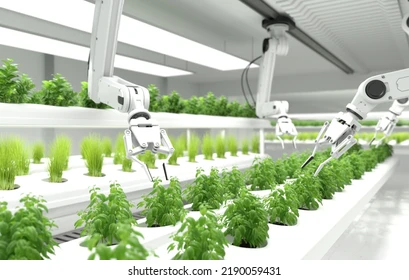
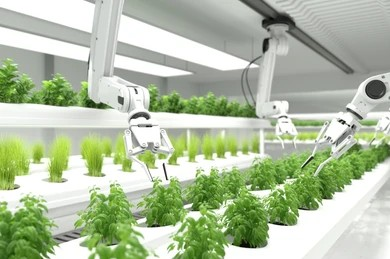
Design changes

diff --git a/src/pages/Home.jsx b/src/pages/Home.jsx
@@ -3,10 +3,10 @@ import { useState } from "react";
 import { Link } from "react-router-dom";
 import logo2 from "../assets/images/logo2.jpg";
 import greenPath from "../assets/images/pathway-though-green-field.jpg";
-import Dot2 from "../assets/images/dot2.png";
+import Dot2 from "../assets/images/dot2.jpeg";
 import Icon1 from "../assets/images/icon1.png";
 import Icon2 from "../assets/images/icon2.png";
-import Left from "../assets/images/left.png";
+import Left from "../assets/images/left2.jpeg";
 import Section from '../components/Section';
 import Testimonial from "../assets/images/testimonial.png";
 import Blog2 from "../assets/images/blog2.png";
@@ -26,7 +26,7 @@ const Home = () => {
   
   return (
     
-  <div className="bg-white  max-w-full overflow-x-hidden font-roboto mx-5">
+  <div className="bg-white  max-w-full overflow-x-hidden font-roboto ">
    
   <header className="bg-white shadow-md fixed w-full z-50">
   <div className="max-w-7xl mx-auto flex justify-between items-center py-4 px-3 md:px-8">
@@ -99,7 +99,7 @@ const Home = () => {
       <div className="centeredhero mt-10 md:mt-0">
         <p className='text-xl font-[1000] text-green-700 '>WELCOME TO AGRIBOT FAMILY</p>
         <h1 className='text-6xl m-6 font-[1000]'>Indoor Farming</h1>
-        <p className='text-lg font-[1000] '>Farm smarter,not Harder.Hire robot as a service for a Moderen Farming.</p>
+        <p className='text-lg font-[1000] '>Farm smarter, not Harder.Hire robot as a service for a Moderen Farming.</p>
       <Link to="/about"><button className='bg-green-700 p-3 mt-5 rounded-lg'>Discover More</button></Link>
       </div>
     </div>
@@ -117,7 +117,7 @@ const Home = () => {
           <img
             src={features2}
             alt=""
-            className="w-24 sm:w-32 h-24 sm:h-32 object-cover rounded-lg shadow-md"
+            className="w-50 sm:w-50 h-50 sm:h-40 object-cover rounded-lg shadow-md"
           />
         </div>
       </div>
@@ -132,7 +132,7 @@ const Home = () => {
           <img
             src={Dot2}
             alt=""
-            className="w-24 sm:w-32 h-24 sm:h-32 object-cover rounded-lg shadow-md"
+            className="w-50 sm:w-50 h-50 sm:h-40 object-cover rounded-lg shadow-md"
           />
         </div>
       </div>
@@ -147,7 +147,7 @@ const Home = () => {
           <img
             src={features1}
             alt=""
-            className="w-24 sm:w-32 h-24 sm:h-32 object-cover rounded-lg shadow-md"
+            className="w-50 sm:w-50 h-50 sm:h-40 sm:h-32 object-cover rounded-lg shadow-md"
           />
         </div>
       </div>
@@ -162,7 +162,7 @@ const Home = () => {
           <img
             src={f13}
             alt=""
-            className="w-24 sm:w-32 h-24 sm:h-32 object-cover rounded-lg shadow-md"
+            className="w-50 sm:w-50 h-50 sm:h-40 object-cover rounded-lg shadow-md"
           />
         </div>
       </div>
@@ -177,7 +177,7 @@ const Home = () => {
           <img
             src={f11}
             alt=""
-            className="w-24 sm:w-32 h-24 sm:h-32 object-cover rounded-lg shadow-md"
+            className="w-50 sm:w-50 h-50 sm:h-40 object-cover rounded-lg shadow-md"
           />
         </div>
       </div>
@@ -192,7 +192,7 @@ const Home = () => {
           <img
             src={f12}
             alt=""
-            className="w-24 sm:w-32 h-24 sm:h-32 object-cover rounded-lg shadow-md"
+            className="w-50 sm:w-50 h-50 sm:h-40 object-cover rounded-lg shadow-md"
           />
         </div>
       </div>
@@ -208,28 +208,24 @@ const Home = () => {
         <img
           src={Left}
           alt="Farm"
-          className="w-full max-w-sm sm:max-w-md lg:max-w-lg object-cover rounded-lg"
+          className="w-120 h-100 max-w-sm sm:max-w-md lg:max-w-lg object-cover rounded-lg"
         />
       </div>
       <div className="md:w-1/3" data-aos="fade-left">
-        <p className="text-[17px] font-semibold text-orange-400">Our Introduction</p>
         <h2 className="text-3xl font-bold text-black">
           Agriculture Farm Automation
         </h2>
-        <p className="mt-4 text-green-600">
-          AgriBot is the advance global agricultural robot for Indoor farms.
-        </p>
-        <p className="mt-4 text-sm">
-       AgriBot is an advanced global agricultural robotics solution designed specifically for indoor and smart farming. Our intelligent robots help farmers increase productivity, reduce resource waste, and achieve sustainable food production through automation and precision technology.
-        </p>
-        <div className="mt-6 flex flex-col sm:flex-row items-center gap-5">
-          <div className="flex items-center gap-2">
+       
+        <p className="mt-4 text-sm text-left">
+      Our Indoor Farming Robot is a cutting-edge solution designed to enhance crop management in greenhouses by combining advanced sensors, AI-driven autonomy, and real-time data monitoring. Equipped with LiDAR and multi-spectral cameras, the robot autonomously inspects, waters, and maintains crops like lettuce with precision, ensuring optimal conditions for growth. Through an intuitive dashboard, farmers can track real-time metrics such as soil moisture, temperature, and light levels, all while the robot operates 24/7 with minimal human intervention.   </p>
+        <div className="mt-6 flex flex-col sm:flex-row  gap-5">
+          <div className="flex items-center  gap-2">
             <img
               src={Icon1}
               alt="Farm"
               className="w-12 h-12 object-cover rounded-lg"
             />
-            <h1 className="text-lg font-semibold">Precision spraying</h1>
+            <h1 className="text-lg font-semibold">Farm Digitalization</h1>
           </div>
           <div className="flex items-center gap-2">
             <img
@@ -237,7 +233,7 @@ const Home = () => {
               alt="Farm"
               className="w-12 h-12 object-cover rounded-lg"
             />
-            <h1 className="text-lg font-semibold">Moderen solution</h1>
+            <h1 className="text-lg font-semibold">Modern Solution</h1>
           </div>
         </div>
         <Link to="/about">
@@ -256,7 +252,7 @@ const Home = () => {
     >
     </div>
    
-    <section className="py-16">
+    {/* <section className="py-16">
       <div
         className="container mx-auto md:px-8 flex flex-col md:flex-row items-center justify-center gap-10"
       >
@@ -268,8 +264,7 @@ const Home = () => {
           />
         </div>
         <div className="md:w-1/3" data-aos="fade-left">
-          <p className="text-[17px] font-bold text-orange-400">Our Farm Benefits</p>
-          <h2 className="text-3xl font-bold">Why Choose Us Agribot Market</h2>
+          <h2 className="text-3xl font-bold">Why Choose Agribot </h2>
           <p className="text-sm">
             There are many variations of passages of available but the majortity
             have sufferred alteration in some form by injected humor or random
@@ -277,20 +272,11 @@ const Home = () => {
           </p>
           <ul className="mt-4 space-y-2 text-gray-600">
             <li>✔ To Increase Food Availability</li>
-            <p className="text-sm">
-              There are variation You need to be sure there is anything hidden
-              in the middle of text.
-            </p>
+            
             <li>✔ Professional Engineers</li>
-            <p className="text-sm">
-              There are variation You need to be sure there is anything hidden
-              in the middle of text.
-            </p>
-            <li>✔ Quality Robot</li>
-            <p className="text-sm">
-              There are variation You need to be sure there is anything hidden
-              in the middle of text.
-            </p>
+           
+            <li>✔ Quality Robots</li>
+           
           </ul>
         <Link to="/reviews">
             <a
@@ -298,7 +284,7 @@ const Home = () => {
               >More</a></Link>
         </div>
       </div>
-    </section>
+    </section> */}
 
   
 
@@ -309,9 +295,8 @@ const Home = () => {
           className="max-w-7xl mx-auto px-6 grid grid-cols-1 sm:grid-cols-2 lg:grid-cols-4 gap-8"
         >
           <div>
-            <p className="mb-4">
-            Agribot is an advanced global agricultural robotics solution designed specifically for indoor and smart farming. Our intelligent robots help farmers increase productivity, reduce resource waste, and achieve sustainable food production through automation and precision technology.
-            </p>
+            <p className="mb-4 text-left">
+          The Bulldog is an autonomous agricultural robot designed for indoor and smart farming solutions. Our intelligent robots empower farmers to boost productivity, minimize resource waste, and achieve sustainable production goals through automation and precision technology.  </p>
             <div className="flex space-x-4 text-yellow-400 text-xl">
               <a href="#"><i className="fab fa-instagram"></i></a>
               <a href="#"><i className="fab fa-twitter"></i></a>
@@ -346,7 +331,7 @@ const Home = () => {
               <p className="text-gray-400 text-sm">July 5 2022</p>
             </div>
             <div>
-              <p>Now people can grow crops in indoor farms with minimal effort.</p>
+              <p>Now people can grow crops in indoor farms with minimal effort</p>
               <p className="text-gray-400 text-sm">August 12 2022</p>
             </div>
           </div>
